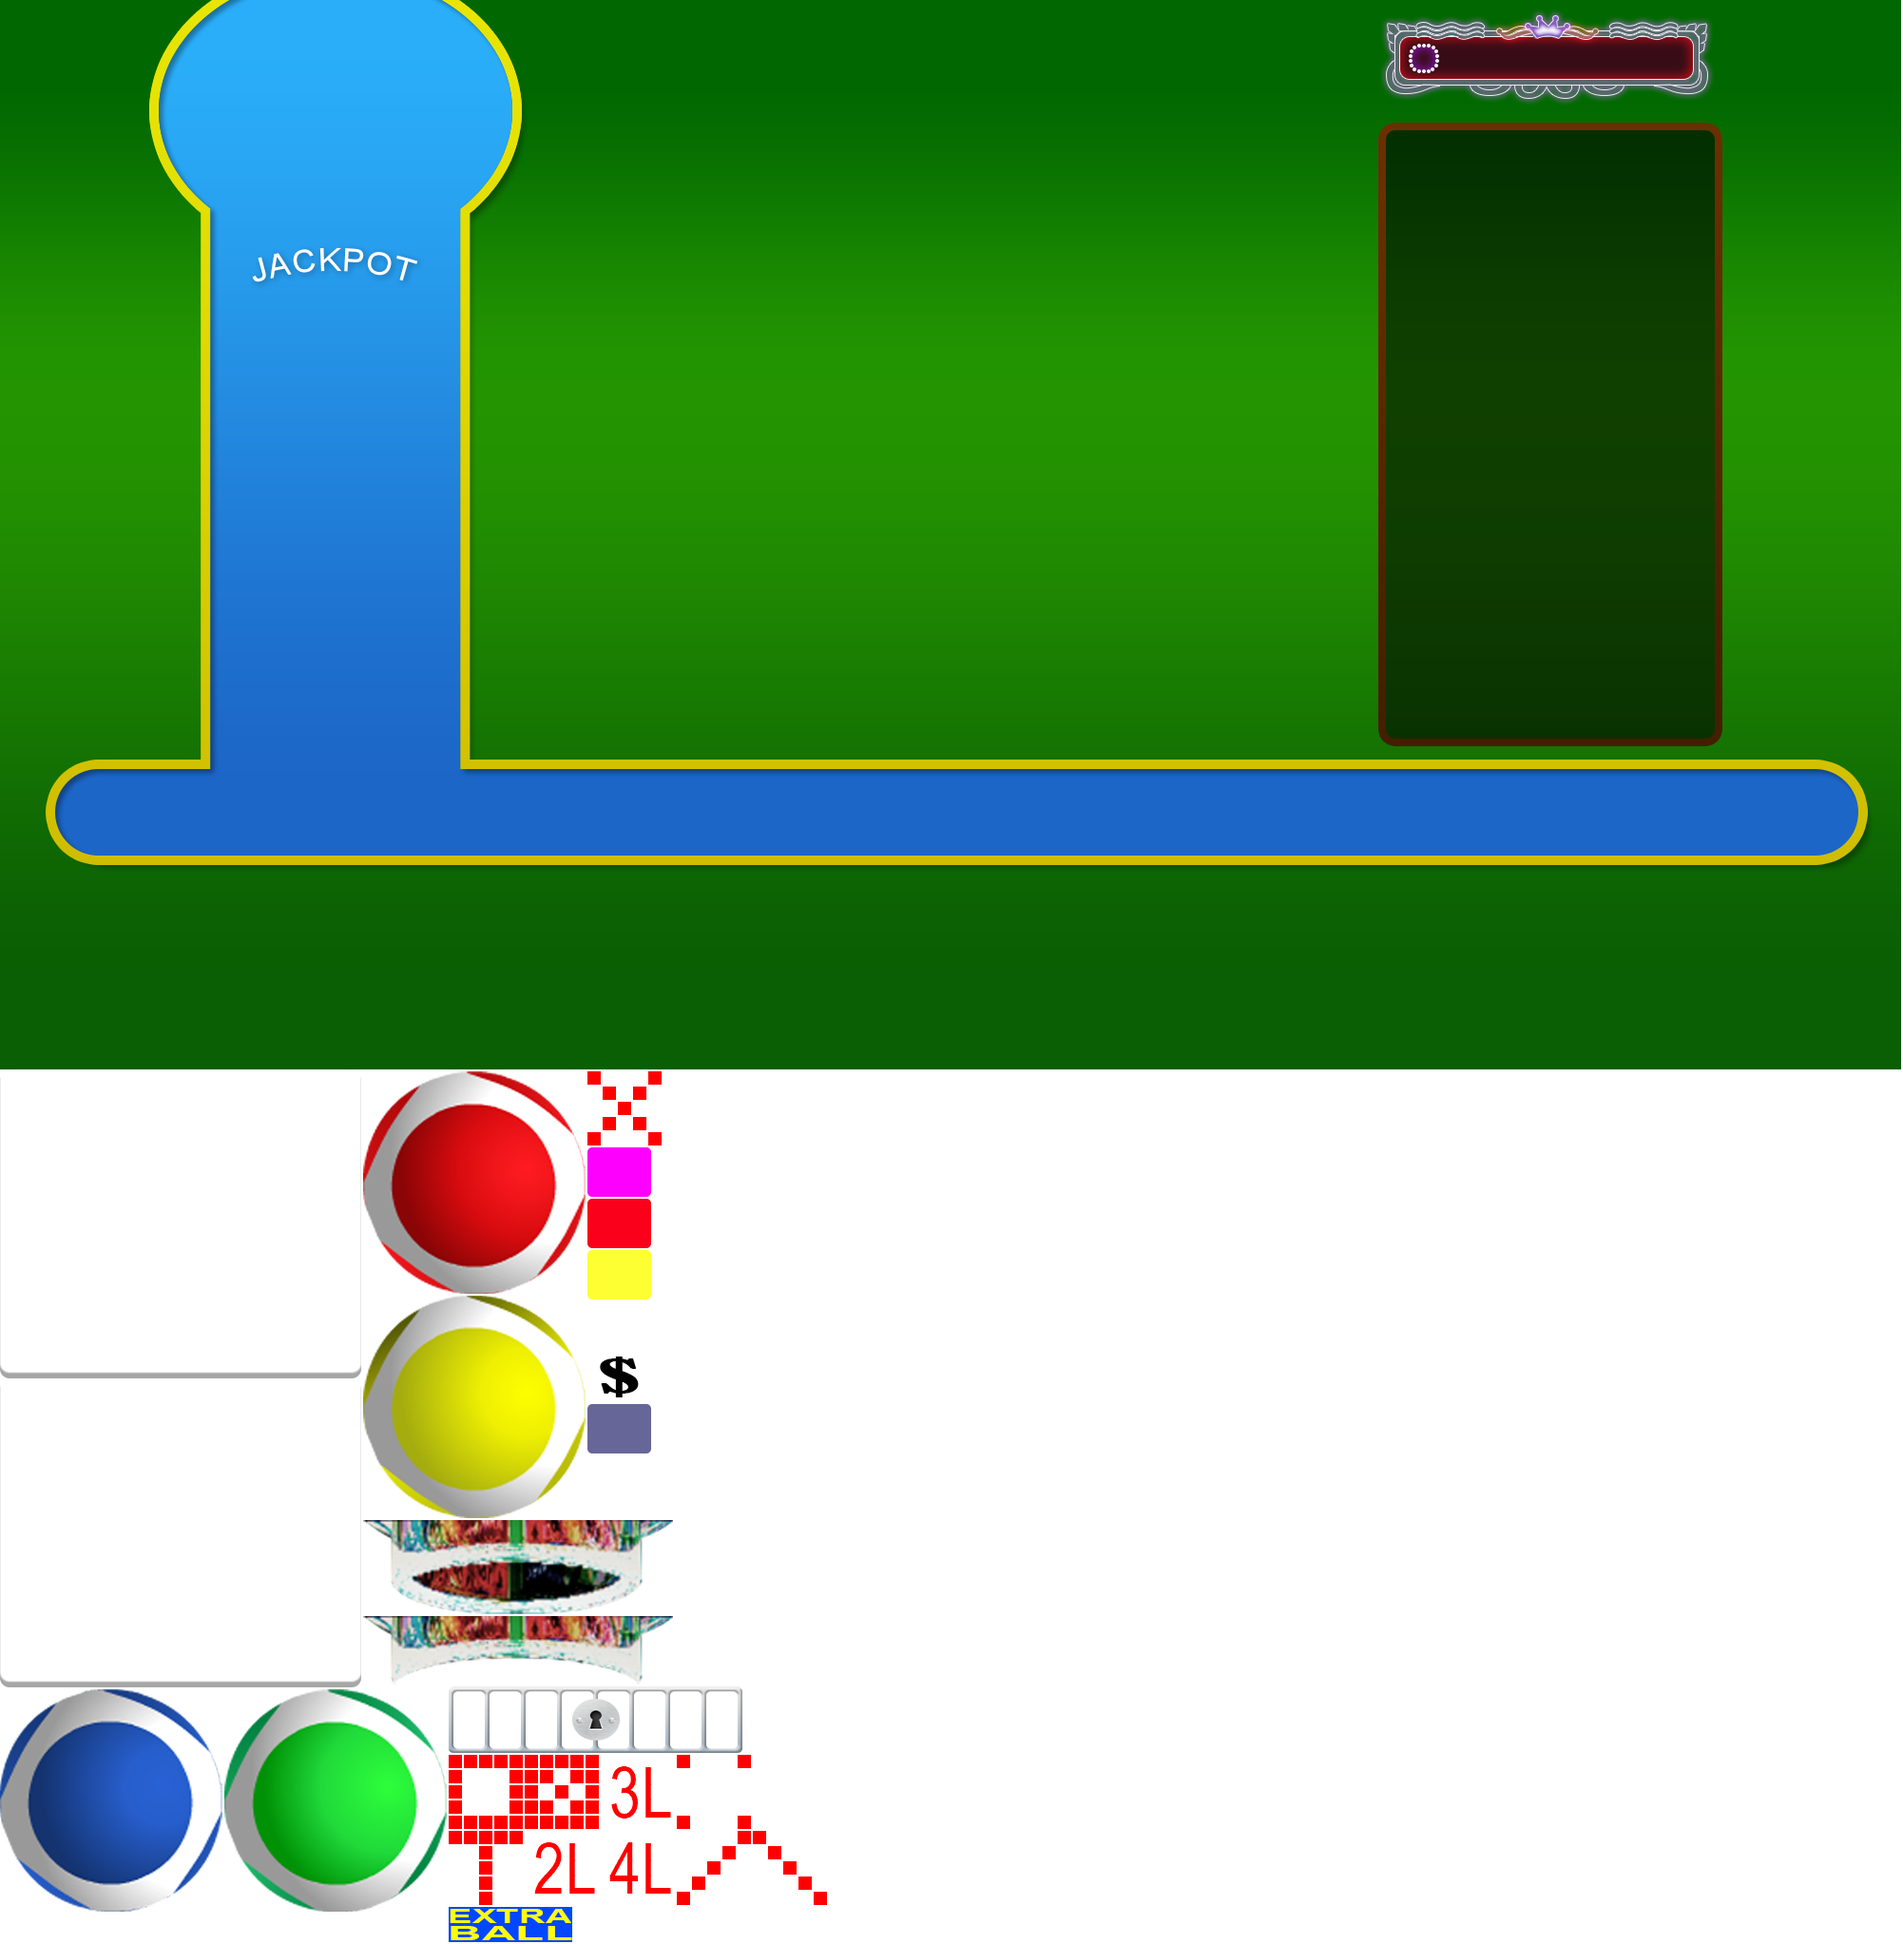
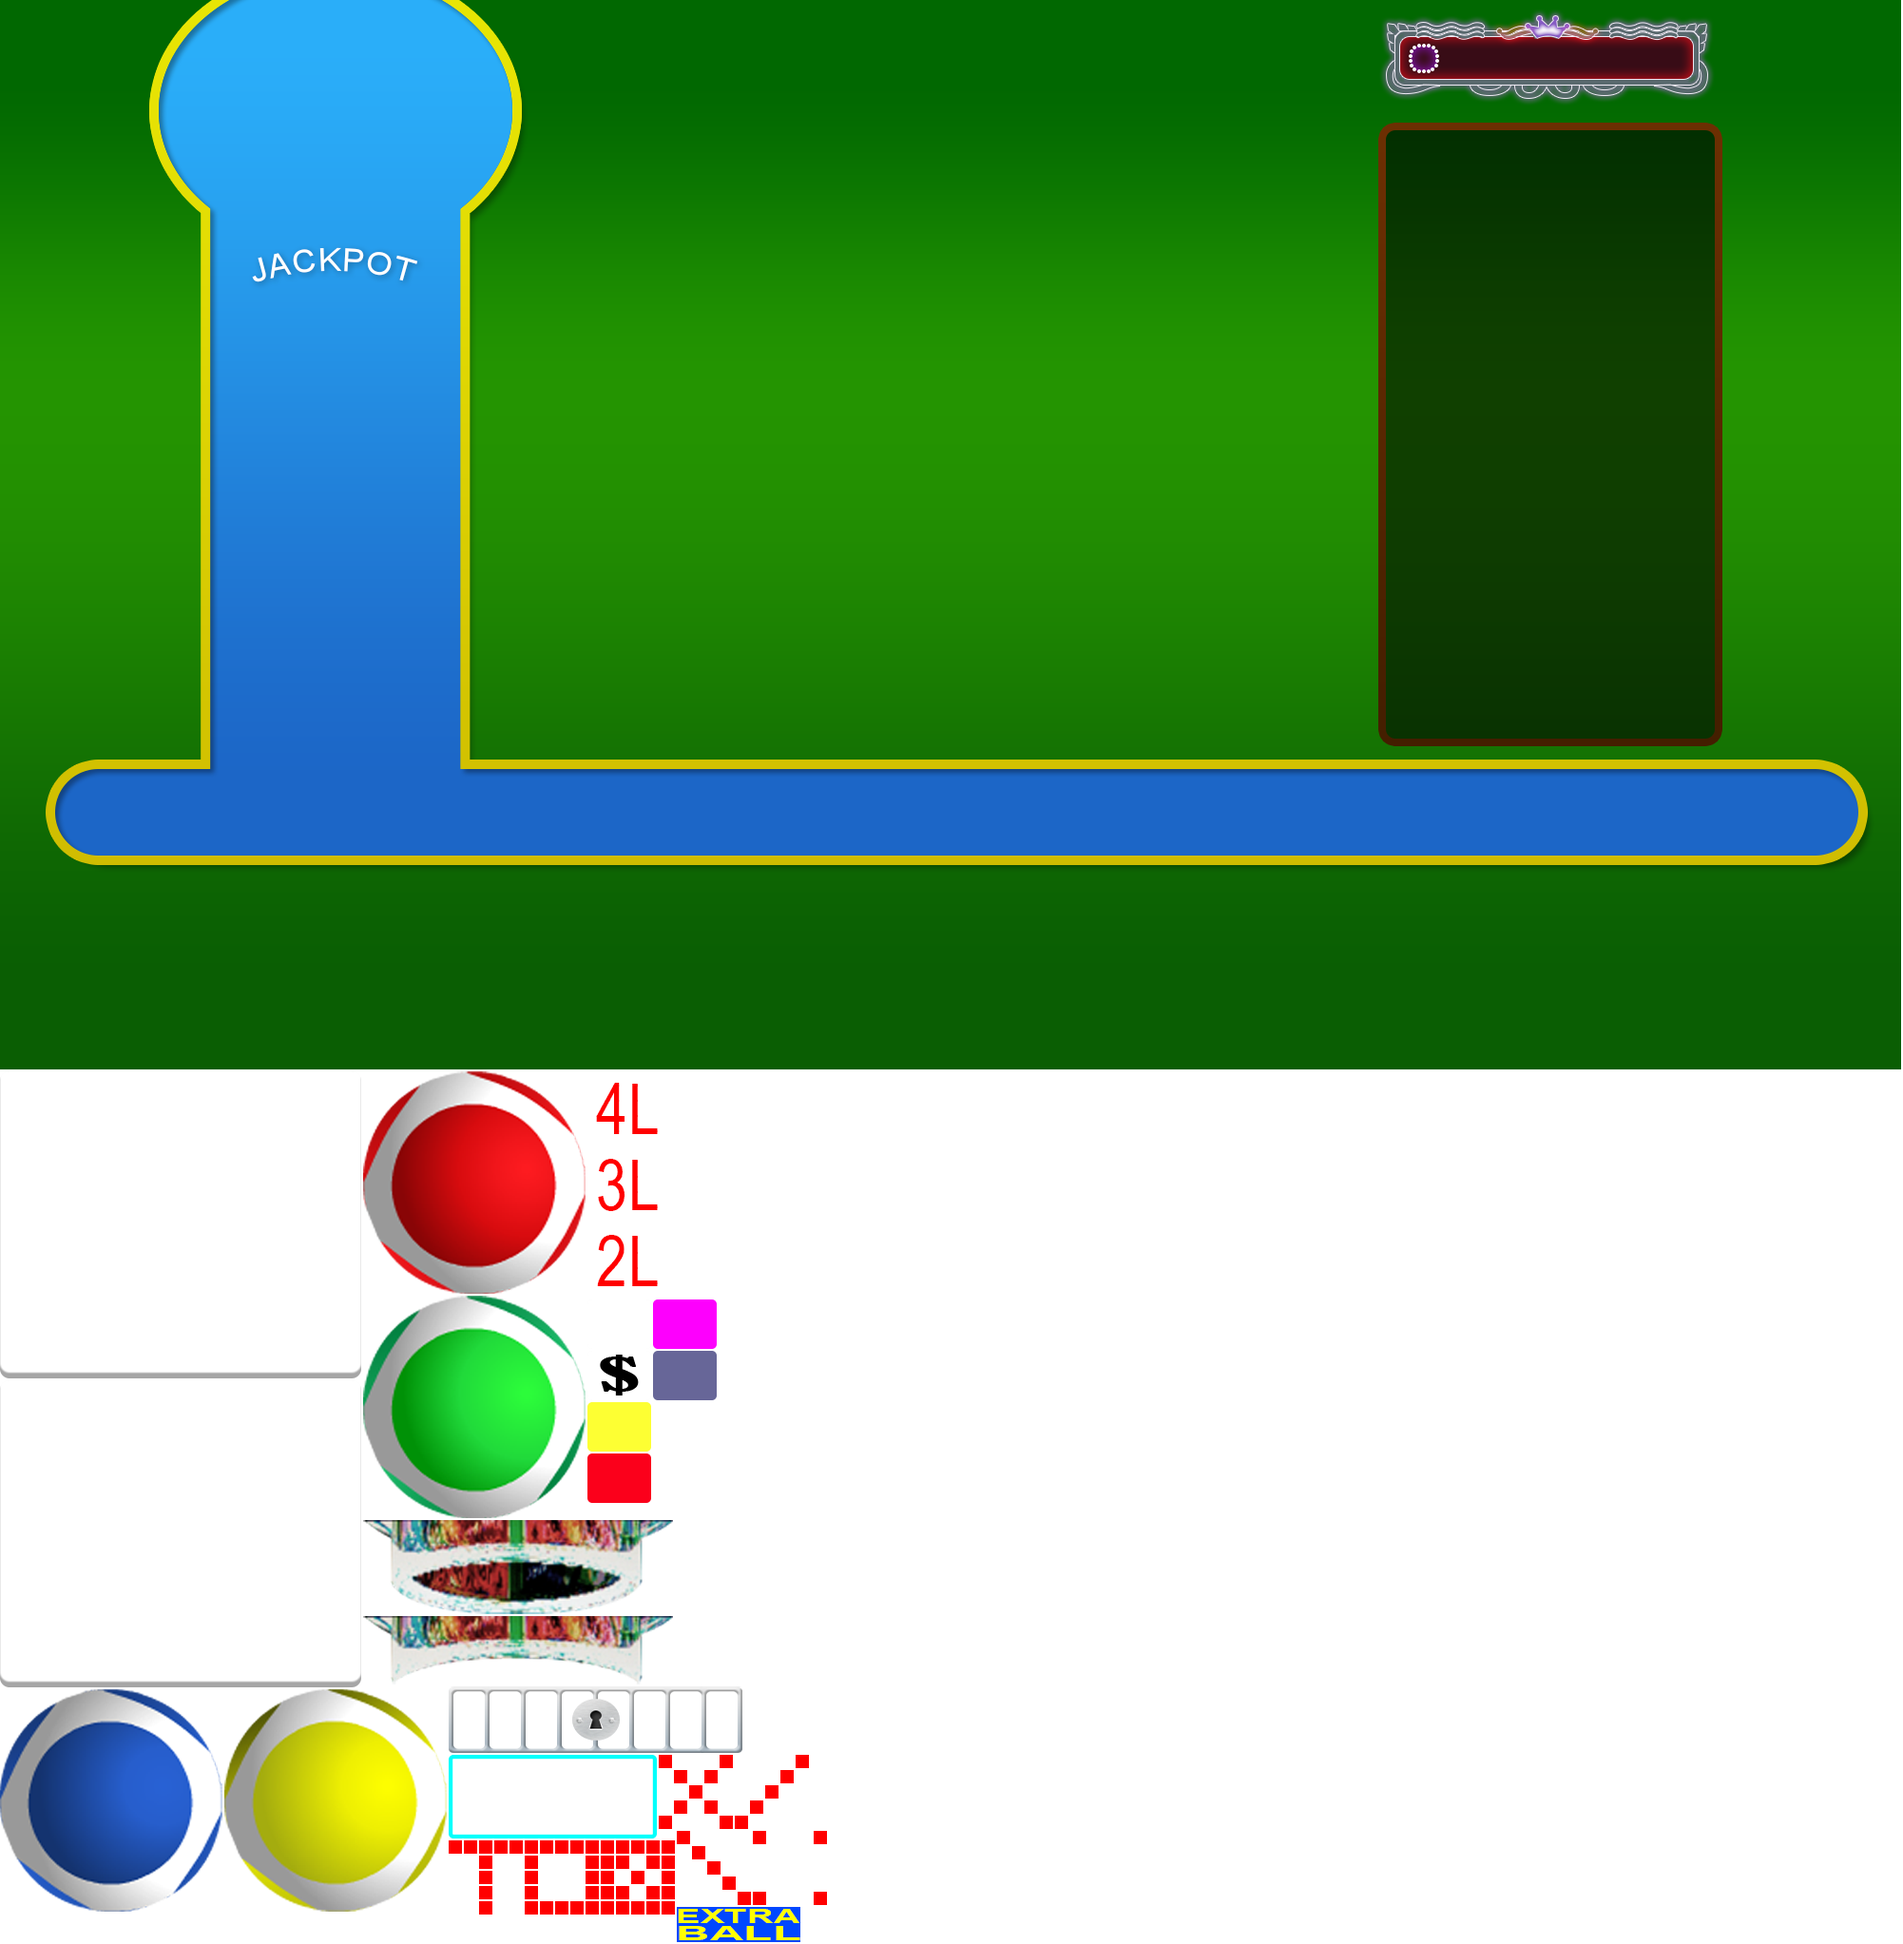
add jsckpot text

Changed region(s): [[0.1239, 0.8626, 0.4336, 1.0], [0.1858, 0.5545, 0.4026, 0.7702]]

diff --git a/newMoblie/src/bingoGames/v1games/bingo3/Bingo3.ts b/newMoblie/src/bingoGames/v1games/bingo3/Bingo3.ts
@@ -30,6 +30,13 @@ class Bingo3 extends V1Game{
 		this.runningBallContainer = new egret.DisplayObjectContainer;
 		Com.addBitmapAt( this.runningBallContainer, this.assetStr( "img_boca_baixo" ), 0, 0 );
 		this.coverRunningBall = Com.addBitmapAt( this.runningBallContainer, this.assetStr( "img_boca_cima" ), 0, 0 );
+
+		Com.addBitmapAt( this, this.assetStr( "box" ), 1570, 151 );
+		let tx: egret.TextField = Com.addTextAt( this, 1560, 151, 200, 88, 30 );
+		tx.text = "x2500\n+" + MuLang.getText( "jackpot", MuLang.CASE_LOWER );
+		tx.verticalAlign = "middle";
+		tx.textAlign = "right";
+		tx.textColor = 0xFFFF2D;
 	}
 
 	private doNotShowLastBall: boolean = false;
